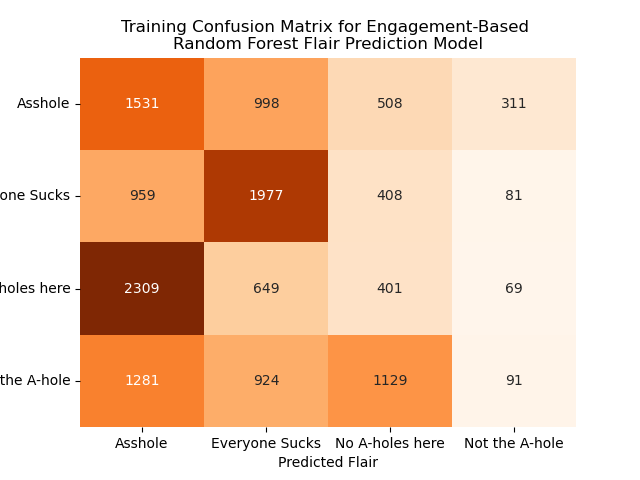
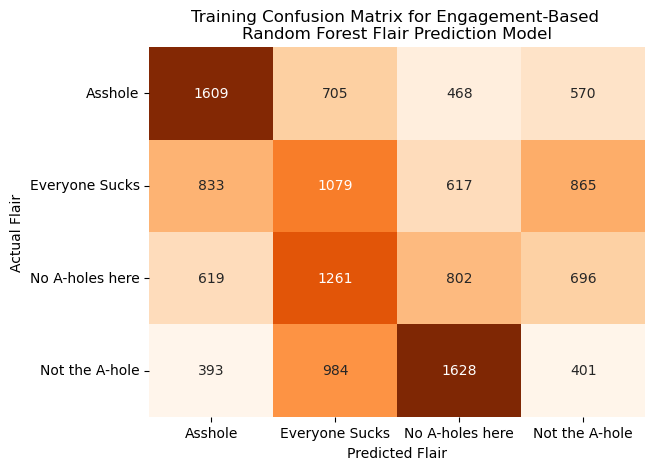
added flairs section

diff --git a/docs/ml.html b/docs/ml.html
@@ -164,8 +164,7 @@ ul.task-list li input[type="checkbox"] {
    
   <ul>
   <li><a href="#subreddit-prediction" id="toc-subreddit-prediction" class="nav-link active" data-scroll-target="#subreddit-prediction">Subreddit Prediction</a></li>
-  <li><a href="#flair-text" id="toc-flair-text" class="nav-link" data-scroll-target="#flair-text">Flair Text</a></li>
-  <li><a href="#flair-engagement" id="toc-flair-engagement" class="nav-link" data-scroll-target="#flair-engagement">Flair Engagement</a></li>
+  <li><a href="#flair-prediction-using-random-forest-classification" id="toc-flair-prediction-using-random-forest-classification" class="nav-link" data-scroll-target="#flair-prediction-using-random-forest-classification">Flair Prediction Using Random Forest Classification</a></li>
   <li><a href="#story-generation" id="toc-story-generation" class="nav-link" data-scroll-target="#story-generation">Story Generation</a></li>
   </ul>
 </nav>
@@ -215,8 +214,10 @@ ul.task-list li input[type="checkbox"] {
 </div>
 </div>
 </section>
-<section id="flair-text" class="level2">
-<h2 class="anchored" data-anchor-id="flair-text">Flair Text</h2>
+<section id="flair-prediction-using-random-forest-classification" class="level2">
+<h2 class="anchored" data-anchor-id="flair-prediction-using-random-forest-classification">Flair Prediction Using Random Forest Classification</h2>
+<p>In this section we attempted to predict what flair is assigned to posts in r/AmItheAsshole (r/AITA) based on various different predictors using a Random Forest (RF) model to attempt to predict how Redditors “judge” these stories posted on r/AITA. We then compared these models with their varying predictors and compared them to a baseline model (random chance).</p>
+<p>The first RF model we applied to the r/AITA data using token counts of the five hundred most common words which were extracted using CountVectorizer in the NLP section previously. We chose fifty trees as our hyperparameter to be used across all models used in this section to allow for consistent comparisons. However, due to the imbalanced nature of the r/AITA posts (as established in the EDA section of this project), the dataset was downsampled so that none of the four primary flairs (Asshole, Not the A-hole, Everyone Sucks, No A-holes here) are overrepresented to the extent that they would significantly hinder model performance. After a training and testing data split, the model was trained on the training subset and various model metrics were calculated for both the training and testing subsets via a SparkML pipeline. Measures and visualizations of this model’s efficacy are displayed below.</p>
 <div id="fig-flair-text-train" class="quarto-figure quarto-figure-center anchored">
 <figure class="figure">
 <p><img src="img/ml-plots/flair-text-cm-train-plot.png" class="img-fluid figure-img" style="width:70.0%"></p>
@@ -235,9 +236,8 @@ ul.task-list li input[type="checkbox"] {
 <figcaption class="figure-caption">Figure&nbsp;6: Shows the evalutation metrics for the Random Forest.</figcaption>
 </figure>
 </div>
-</section>
-<section id="flair-engagement" class="level2">
-<h2 class="anchored" data-anchor-id="flair-engagement">Flair Engagement</h2>
+<p>Based on the metrics above, this model did not predict the flairs of these posts particularly accurately, but performed better than a blind random guess, which would have a theoretical accuracy of 25% compared to our model’s ~30-40%. For both the training and testing subsets, the model did an extremely poor job at predicting “Not the A-hole posts”. This model does perform reasonably well when predicting “Everyone Sucks” and “Asshole” flaired posts, but does not predict the posts with the more positively connoted flairs (No A-holes here and Not the A-hole).</p>
+<p>Another potential set of predictors we identified were measures of user engagement, namely post “score” (number of upvotes minus number of downvotes) and the number of comments under a post. We applied a similar model using these predictors via another SparkML pipeline and compared them to the previous text-based model. The measures of model performance and confusion matrices are visualized below as such.</p>
 <div id="fig-flair-engagement-train" class="quarto-figure quarto-figure-center anchored">
 <figure class="figure">
 <p><img src="img/ml-plots/flair-engagement-cm-train-plot.png" class="img-fluid figure-img" style="width:70.0%"></p>
@@ -256,6 +256,62 @@ ul.task-list li input[type="checkbox"] {
 <figcaption class="figure-caption">Figure&nbsp;9: Shows the evaluation metrics for the Random Forest.</figcaption>
 </figure>
 </div>
+<p>As shown above, this model performs fairly similarly to the previous text-based model but with some slight improvements in some of the model performance metrics along with more comparative performance metrics of the model for the training and test sets. This model more effectively predicted posts with the flairs “Asshole” and “Everyone Sucks” compared to the text-based model, but similarly struggled to correctly identify posts with more positive flairs. Ultimately, while this model does perform slightly better than the previous text-based model, especially at predicting the posts with more negative flairs attached, it still would not serve as an effective tool for accurately predicting these flairs on a larger scale. It is possible that these data are too homogeneous to be easily differentiated using a machine learning model, or using different models and/or hyperparameters may generate more accurate predictions.</p>
+<div class="cell tbl-cap-location-bottom" data-execution_count="3">
+<div class="cell-output cell-output-display" data-execution_count="3">
+<div id="tbl-flair-model-metrics-df" class="anchored">
+<table class="table table-sm table-striped small">
+<caption>Table&nbsp;1: Displays the evaluation metrics of both engagement and text-based models.</caption>
+<colgroup>
+<col style="width: 13%">
+<col style="width: 27%">
+<col style="width: 22%">
+<col style="width: 20%">
+<col style="width: 15%">
+</colgroup>
+<thead>
+<tr class="header">
+<th style="text-align: left;">Metric</th>
+<th style="text-align: right;">Engagement Training</th>
+<th style="text-align: right;">Engagement Test</th>
+<th style="text-align: right;">Text Training</th>
+<th style="text-align: right;">Text Test</th>
+</tr>
+</thead>
+<tbody>
+<tr class="odd">
+<td style="text-align: left;">accuracy</td>
+<td style="text-align: right;">0.4</td>
+<td style="text-align: right;">0.4</td>
+<td style="text-align: right;">0.42</td>
+<td style="text-align: right;">0.33</td>
+</tr>
+<tr class="even">
+<td style="text-align: left;">f1</td>
+<td style="text-align: right;">0.39</td>
+<td style="text-align: right;">0.39</td>
+<td style="text-align: right;">0.38</td>
+<td style="text-align: right;">0.28</td>
+</tr>
+<tr class="odd">
+<td style="text-align: left;">precision</td>
+<td style="text-align: right;">0.4</td>
+<td style="text-align: right;">0.39</td>
+<td style="text-align: right;">0.46</td>
+<td style="text-align: right;">0.31</td>
+</tr>
+<tr class="even">
+<td style="text-align: left;">recall</td>
+<td style="text-align: right;">0.4</td>
+<td style="text-align: right;">0.4</td>
+<td style="text-align: right;">0.42</td>
+<td style="text-align: right;">0.33</td>
+</tr>
+</tbody>
+</table>
+</div>
+</div>
+</div>
 </section>
 <section id="story-generation" class="level2">
 <h2 class="anchored" data-anchor-id="story-generation">Story Generation</h2>
@@ -270,10 +326,10 @@ ul.task-list li input[type="checkbox"] {
 </figure>
 </div>
 <p>To evaluate the model’s effectiveness, we focused on loss and perplexity. A lower perplexity value suggests a higher predictive accuracy of the model. The model achieved a test loss of 1.6227 and a perplexity value of 5.0667, indicating a strong performance in predictive capabilities.</p>
-<p>We were ready to generate stories with the trained. Some examples are shown in <a href="#tbl-rnn-generation">Table&nbsp;1</a>:</p>
+<p>We were ready to generate stories with the trained. Some examples are shown in <a href="#tbl-rnn-generation">Table&nbsp;2</a>:</p>
 <div id="tbl-rnn-generation" class="anchored">
 <table class="table">
-<caption>Table&nbsp;1: Shows the prompt and generated text by the RNN model</caption>
+<caption>Table&nbsp;2: Shows the prompt and generated text by the RNN model</caption>
 <colgroup>
 <col style="width: 50%">
 <col style="width: 50%">
